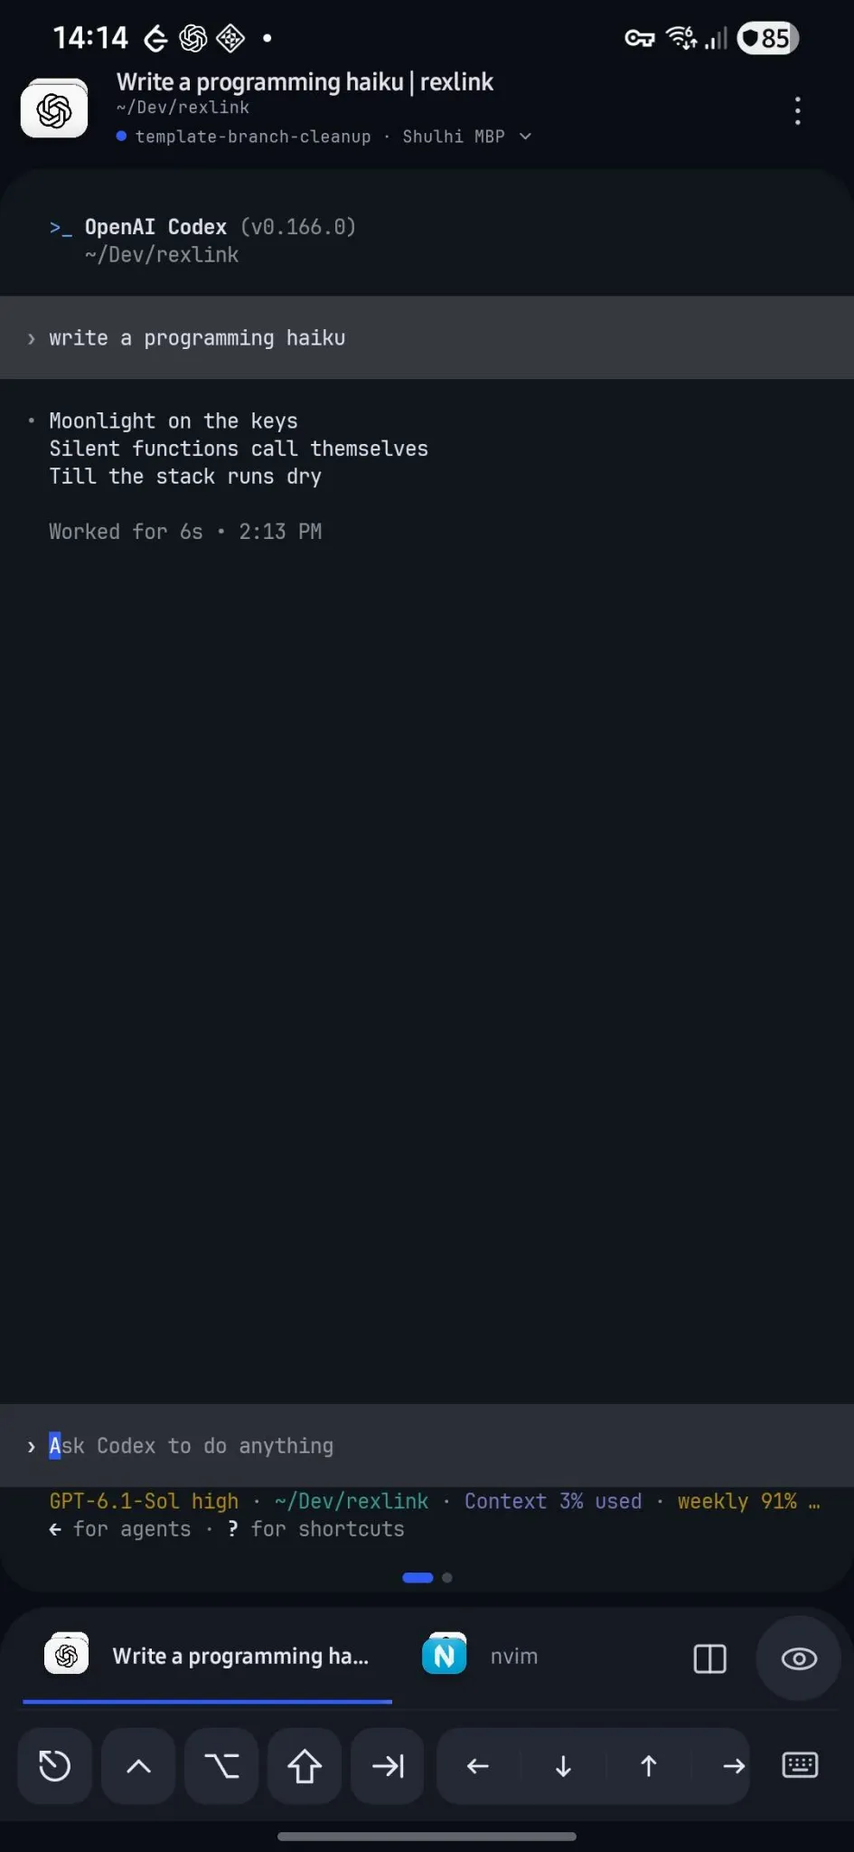
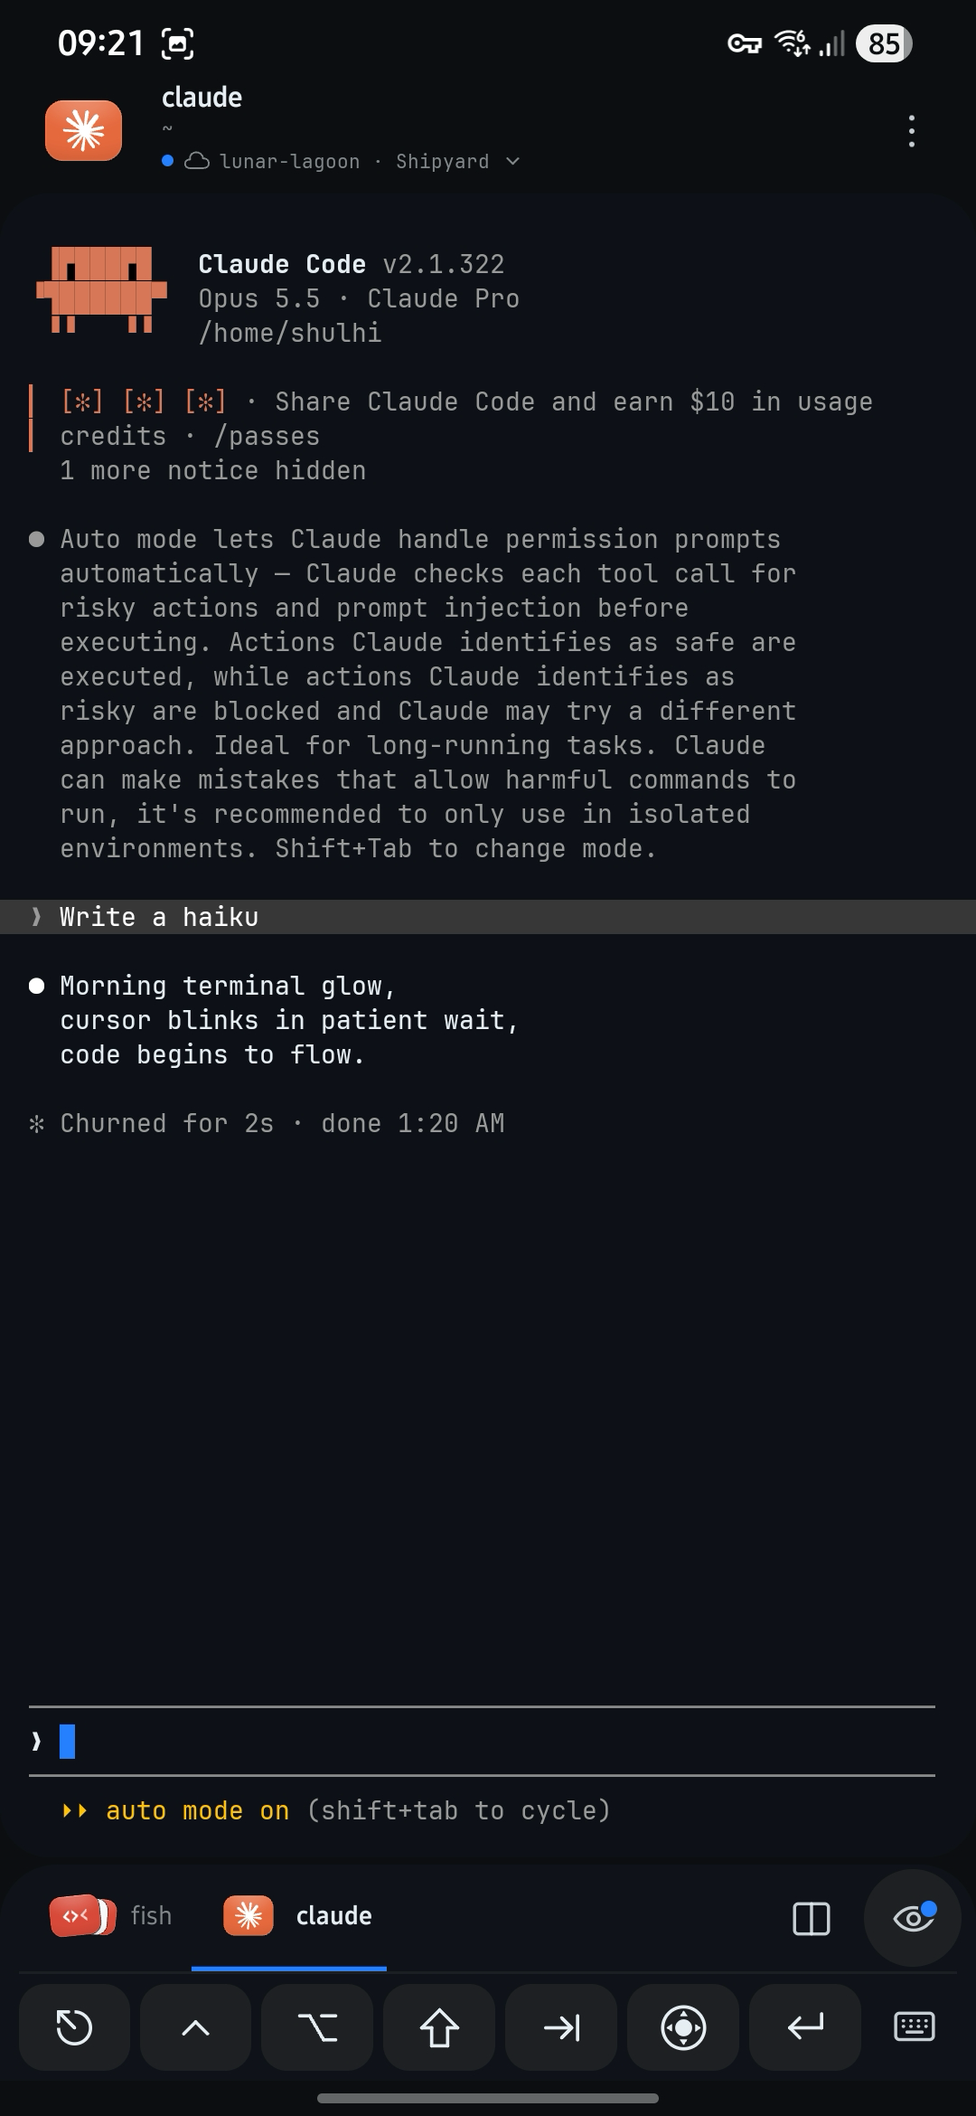
Merge pull request #2 from shulhi/docs/simplify-readme
Simplify README structure and content

diff --git a/README.md b/README.md
@@ -1,315 +1,73 @@
 # <img src="rexling-android/app/src/main/res/drawable-nodpi/rexlink_dinosaur.png" alt="Rexling app icon" width="40" height="40" align="absmiddle"> Rexling
 
-Unofficial native Android client for Superlogical Rex.
-Connect directly to your authenticated Rex server over your private Tailscale network.
-Kotlin/Compose supplies the UI; Rust handles the Rex protocol and JNI; libghostty-vt
-maintains terminal state. No custom bridge, proxy or Rex subprocess is required.
+## Overview
+
+Rexling is an unofficial native Android client for Superlogical Rex.
+Access your terminal sessions from your phone over Tailscale, with touch controls
+for everyday shell work, Neovim, Codex and Claude.
 
 | Light theme | Dark theme |
 | :---: | :---: |
-| <img src="docs/images/rexlink-android.png" alt="Rexling light theme showing a Codex session, pane indicator, tabs, and terminal keyboard controls" width="340"> | <img src="docs/images/rexlink-android-dark.png" alt="Rexling dark theme showing a Codex session, pane indicator, tabs, and terminal keyboard controls" width="340"> |
+| <img src="docs/images/rexlink-android.png" alt="Rexling in light theme" width="340"> | <img src="docs/images/rexlink-android-dark.png" alt="Rexling in dark theme" width="340"> |
 
-```text
-rexling/
-├── rexling-android/       Android Studio / Gradle app, UI, rendering and input
-└── rexling-core/          Rust workspace, shared protocol and terminal implementation
-    ├── src/              rexling-core crate
-    ├── jni/              rexling-jni crate; exports the existing librex_android ABI
-    ├── probe/            original rex-probe / rex-view investigation CLI and evidence
-    ├── native/           Ghostty shim, pinned source manifest and MIT license
-    └── scripts/          native build helper
-```
+## Installation and build
 
-The probe keeps its original investigation implementation and evidence for protocol
-experiments. The app uses the maintained `rexling-core` crate, through `rexling-jni`.
-The crate alias inside JNI remains `rex_core`; Android's package `dev.shulhi.rex`
-and native-library name are unchanged, preserving installed app data and updates.
+Rexling supports **Android 9 or newer on 64-bit ARM devices**. You need a running
+Rex server and Tailscale connected to the same tailnet on your phone.
 
-## Install on Android
+### Install an APK
 
-Rexling currently supports **64-bit ARM phones running Android 9 or newer**,
-including the Galaxy S22+. You need access to an existing Rex server. Install
-and connect Tailscale on your phone when the server is on a private tailnet.
-Rexling uses that existing VPN connection; it does not embed another VPN.
+Download an APK from [GitHub Releases](https://github.com/shulhi/rexling/releases),
+open it on your phone, and allow installation when Android asks. Open Rexling
+and enter your Rex server’s private HTTPS URL. On Android 17+, allow local
+network access when prompted.
 
-Obtain the release APK from the project maintainer, or build it below. Open the
-APK on your phone and allow installation from that file/browser app when Android
-asks. Alternatively, enable USB debugging, connect and authorize your device,
-then install with Android SDK platform-tools:
+### Build from source
 
-```sh
-adb devices -l
-adb -s <your-device-serial> install -r "Rexling-<version>-build<code>-<commit>-arm64-release.apk"
-```
-
-Open **Rexling**, enter your Rex server's authenticated private HTTPS URL, and
-connect. Add other hosts under **⋮ → Servers**. Keep Tailscale connected and
-ensure Rexling is included in its VPN routing. The app does not configure a Rex
-server or change its authentication. APKs are not yet published to an app store.
-
-## Build and install from source
+Install Android Studio, the Android SDK/NDK, Rust, Python and curl. Exact versions
+and setup instructions are in [BUILDING.md](BUILDING.md).
 
 ```sh
 git clone https://github.com/shulhi/rexling.git
 cd rexling
+./rexling-android/scripts/gradle.sh :app:shareRelease
 ```
 
-The repository is hosted at [shulhi/rexling](https://github.com/shulhi/rexling).
+The build downloads the pinned native dependencies and produces an APK and
+SHA-256 checksum in `rexling-android/dist/`. Open `rexling-android/` in Android
+Studio to work on the app.
 
+## Features
 
-Install Android Studio, Android SDK platform 37, Build Tools 36.0.0, NDK
-30.0.16248370, Rust 1.93 or newer, Python 3.9+, and curl. Android Studio's bundled
-JDK 25 was used for validation. See [BUILDING.md](BUILDING.md) for setup, host
-tests, debug builds, device installation and platform details.
+- **Servers and sessions** — connect to multiple Rex servers, create and rename
+  sessions, and restore your last session, tab and pane.
+- **Tabs and panes** — switch, rename and reorder terminals, preview split
+  layouts, split right or below, and dock or float panes. Optional minimized
+  floating panes sit in an icon dock.
+- **Automatic pane takeover** — opening a pane takes control and resizes its
+  terminal to fit your screen, letting terminal applications reflow their text.
+- **Kitty graphics** — display terminal images through libghostty, including
+  PNG/RGB/RGBA images, transparency and animation. Images restore with the
+  terminal snapshot when reconnecting.
+- **Touch terminal controls** — arrow joystick, precise navigation popup,
+  Ctrl shortcuts, function keys and customizable Neovim shortcuts in a wheel
+  or grid.
+- **Image uploads** — paste or attach images to supported Rex servers, with
+  upload progress and cancellation. Rex inserts the uploaded file’s path into
+  the destination terminal. Requires Rex API revision 11 or newer.
+- **Activity and notifications** — track working tasks, finished tasks and
+  requests for attention, with optional background alerts.
+- **Appearance** — light, dark and system themes, program icons and frosted
+  overlays.
 
-From this repository root:
+See the [Android guide](rexling-android/README.md) for more details.
 
-```sh
-./rexling-android/scripts/gradle.sh :app:assembleRelease
-```
+## Project status and license
 
-For a shareable APK whose filename includes the date, build number and commit,
-run `./rexling-android/scripts/gradle.sh :app:shareRelease`. The APK and SHA-256
-checksum are written to `rexling-android/dist/`.
-
-To install the APK you just built:
-
-```sh
-adb devices -l
-adb -s <your-device-serial> install -r \
-  rexling-android/app/build/outputs/apk/release/app-release.apk
-```
-
-The build downloads checksum-verified Ghostty and Zig, compiles the Rust JNI
-library for Android arm64, and builds the APK. The first build needs network
-access; later builds reuse ignored local caches. No old sibling checkout is needed.
-
-```text
-rexling-android/app/build/outputs/apk/release/app-release.apk
-```
-
-Open **rexling-android/** in Android Studio, rather than the repository root.
-Release builds are optimized and non-debuggable. This prototype currently uses
-the development signing identity; see the build guide before publishing a release.
-
-## Run
-
-Keep Tailscale connected on the phone and enter your Rex server's private HTTPS
-address. Add hosts under **⋮ → Servers**. The header cycles through sessions
-across connected hosts; the terminal card switches panes. Both loop at the ends.
-A single fixed pane indicator stays at the bottom of the terminal card. Its
-active capsule transfers width as you swipe; the pane's icon and program name
-appear directly above it without moving the terminal content.
-Rexling saves the last session, tab and pane for each server, including the last
-pane used in each tab, and restores them when reopened. Closed terminals fall
-back to an existing pane.
-Check **⋮ → Preferences → About Rexling** for the date-based app version, build number and
-commit; **Copy build info** copies these details for bug reports.
-The Sessions drawer provides compact, searchable server groups without a second
-session carousel above it. Activity uses the same compact drawer styling.
-Unseen finished tasks, input requests and failures light the Activity dot;
-**Mark seen** clears a report without opening its terminal. Reports for the pane
-you are actively viewing are acknowledged automatically, so they do not light
-the eye badge. Other panes and tabs retain their unread indication. Activity uses a solid
-blue bar for finished tasks, a blue bar with a moving highlight for working tasks, pulsing amber for
-attention and red for failures; seen reports are muted.
-
-The bottom dock switches tabs and opens Activity. Its tab/pane button opens a
-switcher directly: tap **Tabs** or **Panes**, or swipe between them. **Panes**
-shows a map of the current layout on the server, including nested splits and
-their proportions. Small vector program icons identify panes in the compact map. Tapping a
-tile or row selects a target inside the panel; **Open pane** navigates to it.
-Floating panes have dashed outlines. **Hide floating** reveals panes underneath;
-**Show floating** restores the overlays. This changes only the map, and floating
-panes stay available in the list. The compact header combines section switching
-and Close; **Open pane** and **New pane** sit together below the list. **New pane**
-offers **Split right** and **Split below** in a compact direction menu.
-The Tabs section uses the same selection and **Open tab** pattern. A “Viewing”
-caption identifies the currently open tab/pane independently of the selection.
-**Split right** and **Split below** act on the selected target, without first
-opening it, and show a preview of the new half. These
-split the selected pane on the server; the phone continues showing one pane at
-a time. Use **New tab** or **New pane** in its section, or close an item with
-its × button and confirmation. Panes lists the panes in the current tab.
-Hold and drag a row in either section to reorder it; hold near an edge to scroll
-farther. Reordering does not open or select the dragged item. Tab order syncs
-through Rex. Pane sorting moves programs through the server's existing layout
-positions, preserving split sizes and floating-layer bounds. The layout map and
-pane swipe order follow the updated server arrangement. Move up/down actions are
-also available through accessibility controls.
-Tabs fit their icon and title up to a width cap, giving the active title
-priority. Short titles leave room for others; inactive tabs become compact
-icons when space is tight. A single tab can use all the space before the
-tab/pane menu button, showing its full title when it fits.
-The strip scrolls when the tabs cannot fit; the switcher
-keeps their longer titles available.
-When space is limited, titles nearest the active tab take priority, with more
-distant tabs collapsing to icons first.
-On reconnect, tabs reuse their last known titles and icons while fresh metadata
-loads. The tab strip waits for the terminal and tab metadata before appearing,
-keeping its space reserved while loading. New panes use a neutral loading tile
-instead of temporary window IDs or an assumed shell icon. **⋮ → Toggle Dark theme / Toggle Light theme**
-quickly switches between your saved light and dark presets; **Preferences →
-Appearance** also offers the system setting.
-Hold a tab and drag it left or right to
-rearrange it; hold near an edge to scroll farther. The order syncs with other Rex
-clients. Hold and release without dragging for **Move left**, **Move right** and
-**Close tab**. Rename a session from its row’s
-**⋮ → Rename session** in the session list; changes sync through Rex.
-Long-press Ctrl for common control shortcuts, including **Ctrl+J** and **Ctrl+]**.
-The arrow joystick sits immediately before Enter in the keyboard row. Hold it and slide toward
-an arrow to send one step; holding for 500 ms starts a slower repeat every
-160 ms. Its overlay uses a moving thumb dot and directional highlight, stays
-centered on the button, and uses a compact ring when
-the keyboard is hidden. Double-tap the joystick to open the arrow
-popup for precise taps or held keys; a single tap on the trigger closes it.
-PgUp and PgDn occupy the upper corners beside Up, with a slower held repeat.
-Turn off **Preferences → Keyboard → Use joystick for arrows** to use a single
-tap for the popup instead, with joystick gestures disabled.
-With joystick enabled, a drag switches back to steering. Returning to the center pauses
-repeat, and releasing stops immediately. The gesture stays captured so a right
-slide does not trigger back or pane navigation. Enter has a dedicated key, and
-swiping right on the key row reveals the chevron to the left of Esc for
-F1–F12 and navigation keys. Closing the extra keys hides the chevron again.
-Under **Preferences → Keyboard → Ctrl shortcuts**, choose **Hold** (the default)
-or **Double tap** to open the list. When closed, single taps toggle Ctrl
-immediately. Tapping Ctrl while its popup is open closes it and clears Ctrl.
-Neovim panes have a draggable, low-profile circular button for saved key shortcuts. Its
-position is remembered and stays inside the terminal when its size changes.
-Choose **Circular** (the default) or **Grid** in the Neovim shortcut preferences.
-The circular layout is a segmented wheel with up to eight commands per page.
-Choose **Fan out**, **Spin**, **Expand** or **None** under **Preferences → Keyboard → Neovim
-shortcuts → Opening effect**. Fan out reveals segments clockwise in a wave;
-Spin rotates the wheel into place, while Expand grows it outward from the
-center. None opens and closes immediately. The choice is saved, and commands
-remain usable during opening. The center stays anchored for every effect.
-Older Shutter selections automatically switch to Expand.
-Labels follow the ring; the center previews the highlighted command. A narrow
-gap separates the ring from the center, which shows Close when idle. Hold the
-button, slide to a segment and release to run it once. Returning to the center
-cancels the selection. Tap to leave the menu open for repeated commands.
-Swipe up/down starting on the outer ring to change pages, looping in either
-direction. Tap the center to go Back from a group or close the root wheel.
-Drag the closed button to reposition it. Its resting position leaves room for
-the wheel at screen edges, so opening it never moves the button. The wheel can
-overlap the header and bottom bars while staying in the visible app area. Grid mode shows six shortcuts per page and keeps its
-existing vertical paging.
-There is no fixed limit on the number of saved shortcuts.
-It stays open after selecting shortcuts and ignores outside taps; use Close to
-dismiss it. Circular mode has optional selection haptics, enabled by default,
-with a selection tick when you move into a different command. Disable **Selection
-haptics** in the same Neovim shortcut preferences if desired. The arrow joystick
-also ticks on direction changes, with no repeated vibration while holding an
-arrow. Both follow the phone’s system touch-vibration settings.
-Optional group headers such as `[Git]` put following shortcuts inside a subtly
-shaded group segment (or a pill in Grid mode). Tap it to show its shortcuts; Back returns
-to the main menu. Use `[]` to return to ungrouped entries in the editor. Groups
-have one level, and both the main menu and groups support vertical paging.
-The defaults include `:w` and `:q`, which run immediately. Edit **Preferences →
-Keyboard → Neovim shortcuts** with one
-shortcut per line, optionally named as `LazyGit = <Space>lg`. Shortcuts start in
-Normal mode; key notation includes `<Esc>`, `<CR>`, `<Tab>`, arrow keys and
-`<C-x>`. Use your actual leader key, such as `<Space>`. Bare colon commands get
-Enter automatically; other key sequences are sent as configured. The preference
-toggle hides the button without deleting shortcuts; an empty list also hides it.
-Swipe up/down on the top-bar program icon to switch to the next/previous
-session, looping across connected servers like the horizontal session strip.
-The icon follows the vertical gesture and springs back without moving the header text.
-Tap the input cursor row in Codex or Claude to open the keyboard, including when
-the program uses terminal mouse reporting. Other application clicks keep their
-normal behavior.
-The selected pane streams a Ghostty
-snapshot followed by incremental VT output. Opening a pane claims it once when
-ready; viewing another client's pane shows a contextual takeover notice. Manual
-Take/Release remain in the overflow menu. Input is paused during reconnection and
-uncertain input is never replayed.
-
-### Create a session
-
-Choose **⋮ → New session**, or tap **New session** in the session drawer.
-The dialog shows the target server; give the session a name or leave it blank
-for Rex to generate one. An empty connected server also shows a create button.
-
-### Image attachments
-
-Updated Rex servers (API revision 11+) receive images directly. Copy an image
-and use **Paste** from your keyboard or Rexling's menu, or choose **⋮ → Attach
-image**. PNG, JPEG, GIF and WebP images are streamed
-with progress and cancellation, up to 100 MiB and the server's own limits.
-Progress appears in a compact bottom-right pill, briefly turns green on success,
-then disappears automatically.
-
-Rex stores the file on the terminal's host and inserts its path into the original
-pane without pressing Enter. Switching panes during an upload does not change
-its destination. Rex manages storage and removes older terminal uploads as needed.
-If confirmation is lost while finishing, check the original pane before trying
-again; Rexling does not automatically repeat an upload with an uncertain result.
-
-Image attachments require a Rex server with API revision 11 or newer. Update
-older servers to enable uploads; there is no separate upload service to configure.
-
-Keep Tailscale connected. On Android 17+, allow local network access when asked.
-
-### Experimental Codex attention
-
-**Preferences → Experimental → Codex title attention** is off by default. When
-on, Rexling treats Codex’s explicit `[!] Action Required` title (including its
-animated bracket variant) as Needs you if the structured report remains Working.
-It is limited to the same verified Codex process and root task. This workaround
-depends on Codex’s title format; Claude and explicit Done/Error reports keep their
-normal status behavior.
-
-### Background alerts
-
-Enable **⋮ → Preferences → Background alerts** to receive task notifications while the app
-is backgrounded or the phone is locked. Allow notifications when Android asks.
-A quiet ongoing notification shows monitoring status and a **Stop** action.
-Finished tasks, input/approval/sign-in requests and errors alert. Running and idle
-tasks do not. Existing completions are baselined when monitoring starts, so they
-are not replayed as new notifications. Foreground updates are consumed without
-delayed alerts. Tapping an alert opens its server, session and pane. Terminal control is
-released and rendering pauses in the background; monitoring is read-only.
-
-Monitoring stops when you remove Rexling from Recents, force-stop it, or tap Stop.
-It does not start at boot or require server-side push. Network loss, Android Doze
-and device battery management can delay alerts; instant delivery is not guaranteed.
-
-See [Android usage](rexling-android/README.md),
-[protocol findings](rexling-android/PROTOCOL.md), and
-[validation history](rexling-android/VALIDATION.md).
-
-## Project status
-
-Rexling is maintained on a **best-effort basis**. Support, updates, bug fixes and
-compatibility with future Rex versions are not guaranteed. Use it at your own
-risk: it is provided **AS IS, without warranties or conditions of any kind**.
-The warranty disclaimer and limitations of liability are set out in the
-[Apache 2.0 license](LICENSE).
-
-## History and license
-
-Both original repositories' histories are retained without rewriting their commit
-IDs. See [HISTORY.md](HISTORY.md) for provenance and history-navigation commands.
+Rexling is an independent, unofficial client maintained on a **best-effort basis**.
+Compatibility with future Rex versions and ongoing support are not guaranteed.
+The app is provided **AS IS**, under the terms of the license.
 
 Copyright 2026 Shulhi Sapli and contributors. Project code is licensed under
-[Apache License 2.0](LICENSE). Third-party code, fonts, logos and sourced assets
-retain their own terms; see [THIRD_PARTY_NOTICES.md](THIRD_PARTY_NOTICES.md).
-Rexling is an independent, unofficial client and is not an official Rex product.
-
-### Floating panes on the phone
-
-Enable **Preferences → Panes → Minimize floating panes** to keep floating panes in a compact icon dock at the bottom right. They are excluded from pane swipes. A single floating pane opens directly from its icon. Multiple floating panes use a stacked icon: tap it to fan their icons and titles upward, and tap it again to collapse the list. The stack is highlighted while a floating pane is open. Tap an item to open its terminal; tap the active item again or press Back to minimize it and return to the last tiled pane in that tab. Floating panes remain available in the pane drawer. This preference is off by default and does not change the server’s layout.
-
-### Server icons
-
-Open **Servers → ⋮ → Edit → Icon** to choose Globe, Server, Cloud, MacBook, Mac mini, Mac Studio or Desktop, then save. The icon is stored on this phone and shown beside that server in the server list, session header and drawer, and Activity groups. Existing servers default to Globe.
-
-### Rename and arrange terminals
-
-In the **Tabs/Panes** drawer, use a row’s **⋮** menu to rename a tab or pane. Clear its name to restore the automatic title. Custom pane names stay visible while the program changes its terminal title.
-
-A docked pane’s menu offers **Float pane**. A floating pane’s menu offers **Dock pane**, where you choose an existing docked pane in that tab and split right or below. Rex requires a docked anchor, so Rexling keeps at least one docked pane in each tab. These actions update Rex’s layout and labels without navigating to the edited terminal.
-
-### Program icons
-
-Rexling ships 155 vector program tiles and recognizes executable aliases for tools such as Yazi, Docker/Podman, Kubernetes, GitHub/GitLab CLI, Cargo, Go, Homebrew, PostgreSQL/SQLite, Ollama, Gemini, OpenCode and Antigravity. Icons follow Rex’s executable metadata, including full paths and interpreter wrappers; custom tab/pane titles do not change program identity. Unknown programs keep the terminal fallback.
+[Apache License 2.0](LICENSE). Third-party dependencies and assets retain their
+own terms, listed in [THIRD_PARTY_NOTICES.md](THIRD_PARTY_NOTICES.md).
